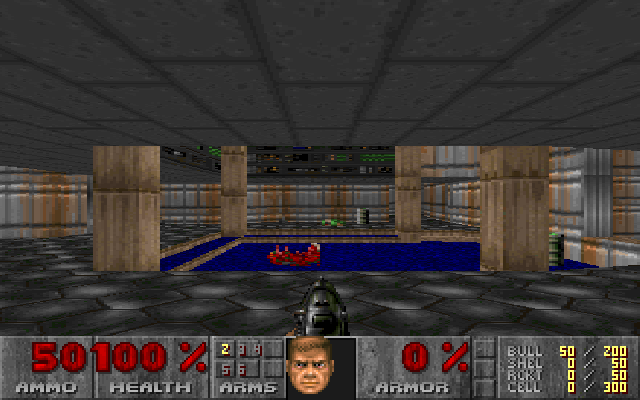
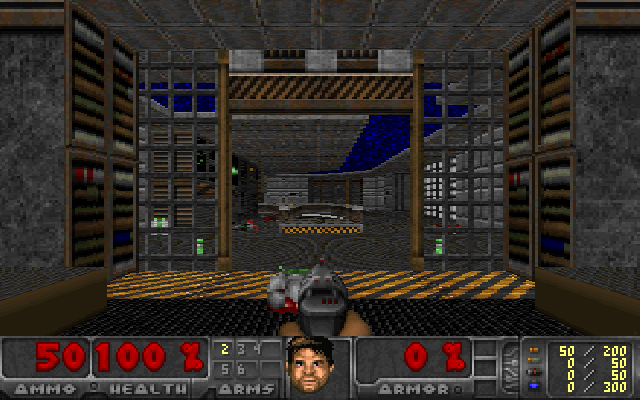
docs: render the screenshot from Freedoom, not shareware Doom
The README image was a frame of DOOM1.WAD, which is id Software's artwork
under a shareware licence that does not permit redistribution - not something
to commit to a public repository. Freedoom is BSD-style and redistributable,
and it is what the test suite runs against anyway.

diff --git a/README.md b/README.md
@@ -3,7 +3,9 @@
 A Doom engine written in Python. No native code, no third-party packages —
 `struct` and `math` from the standard library, and nothing else.
 
-![Duum rendering E1M1](docs/screenshot.png)
+![Duum rendering Freedoom E1M1](docs/screenshot.png)
+
+<sub>Freedoom E1M1, rendered by Duum at 640x400.</sub>
 
 It loads a real IWAD and draws a first-person, BSP-traversed, texture-mapped,
 perspective-correct view of it, with sprites, doors, lifts, monsters,
